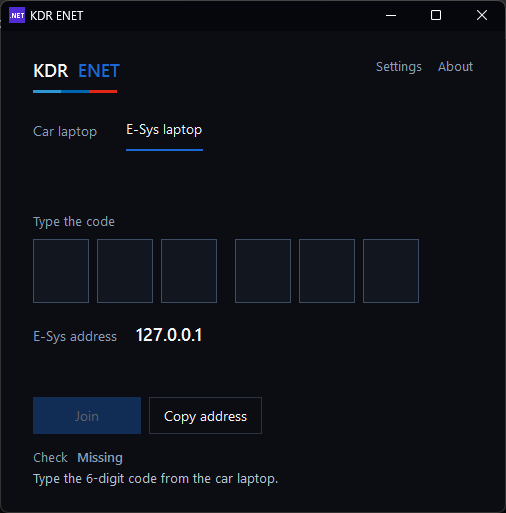
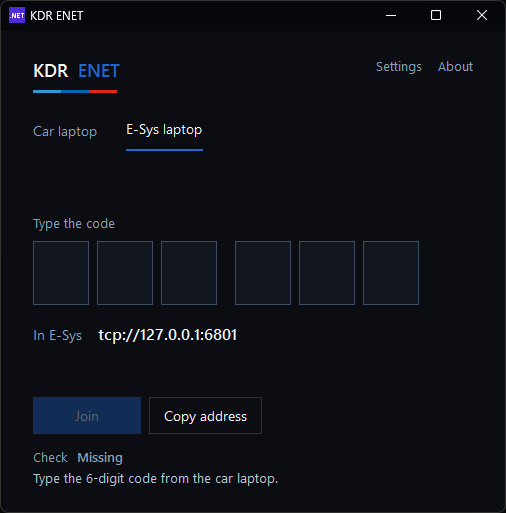
Tell E-Sys to use tcp://127.0.0.1:6801 instead of the other laptop address.

Changed region(s): [[0.0593, 0.6238, 0.4743, 0.6862], [0.0593, 0.4055, 0.2372, 0.4678]]

diff --git a/MainWindow.xaml b/MainWindow.xaml
@@ -207,8 +207,8 @@
                     <TextBox x:Name="Digit5" Style="{StaticResource DigitBox}" Margin="0"/>
                 </StackPanel>
                 <TextBlock Margin="0,18,0,0" FontSize="14">
-                    <Run Text="E-Sys address" Foreground="#8ea0b5"/>
-                    <Run Text="   127.0.0.1" Foreground="#f4f7fb" FontSize="18" FontWeight="SemiBold"/>
+                    <Run Text="In E-Sys" Foreground="#8ea0b5"/>
+                    <Run Text="   tcp://127.0.0.1:6801" Foreground="#f4f7fb" FontSize="16" FontWeight="SemiBold"/>
                 </TextBlock>
             </StackPanel>
         </StackPanel>

diff --git a/MainWindow.xaml.cs b/MainWindow.xaml.cs
@@ -311,7 +311,7 @@ public partial class MainWindow : Window
             _vm.SessionOn = true;
             _vm.Session.Detail = "Joined";
             _vm.Session.State = "ok";
-            _vm.AddLog("In E-Sys use 127.0.0.1. Leave this window open.");
+            _vm.AddLog("In E-Sys use tcp://127.0.0.1:6801. Leave this window open.");
         }
         catch (Exception ex)
         {
@@ -344,7 +344,7 @@ public partial class MainWindow : Window
     {
         if (!_vm.CanCopy)
             return;
-        var text = _vm.IsCarSide ? _vm.SessionCode : "127.0.0.1";
+        var text = _vm.IsCarSide ? _vm.SessionCode : "tcp://127.0.0.1:6801";
         Clipboard.SetText(text);
         _vm.AddLog("Copied " + text + ".");
     }
@@ -519,7 +519,7 @@ public partial class MainWindow : Window
         {
             Mark("All good", _vm.IsCarSide
                 ? "Read the code to the other laptop. Leave this window open."
-                : "E-Sys address is 127.0.0.1. Leave this window open.");
+                : "In E-Sys use tcp://127.0.0.1:6801. Leave this window open.");
             return;
         }
 
@@ -532,7 +532,9 @@ public partial class MainWindow : Window
             }
 
             Mark(_vm.RelayReady ? "All good" : "Missing",
-                _vm.RelayReady ? "" : "The session server is not set, so Join cannot reach the car laptop.");
+                _vm.RelayReady
+                    ? "In E-Sys use tcp://127.0.0.1:6801. Then click Join."
+                    : "The session server is not set. In E-Sys the line is still tcp://127.0.0.1:6801.");
             return;
         }
 

diff --git a/Services/SessionService.cs b/Services/SessionService.cs
@@ -256,7 +256,7 @@ public sealed class SessionService
                 else
                 {
                     link.StartTechnician(digits, host, port);
-                    Report(progress, "Joined " + SessionLink.FormatCode(digits) + ". In E-Sys use 127.0.0.1.");
+                    Report(progress, "Joined " + SessionLink.FormatCode(digits) + ". In E-Sys use tcp://127.0.0.1:6801.");
                 }
 
                 _link = link;

diff --git a/README.md b/README.md
@@ -1,6 +1,6 @@
 # KDR ENET
 
-Free Windows app for a remote BMW coding session. The laptop on the car shows a 6-digit code. The laptop running E-Sys types it. E-Sys uses `127.0.0.1`. The two laptops do not need the same Wi-Fi.
+Free Windows app for a remote BMW coding session. The laptop on the car shows a 6-digit code. The laptop running E-Sys types it. In E-Sys use `tcp://127.0.0.1:6801`. The two laptops do not need the same Wi-Fi.
 
 Windows 10 or 11, 64-bit. Click **Yes** when Windows asks. .NET is already inside the download.
 
@@ -33,7 +33,7 @@ Cables for the session: **ENET**, **MHD**, **ICOM**.
 
 1. Open KDR ENET → **E-Sys laptop**
 2. Type the code in the **6 boxes** → **Join**
-3. In E-Sys set the address to `127.0.0.1`
+3. In E-Sys, where you used to put the other laptop, put `tcp://127.0.0.1:6801`
 4. Leave this window open
 
 **Stop** on both laptops when the coding is done.
